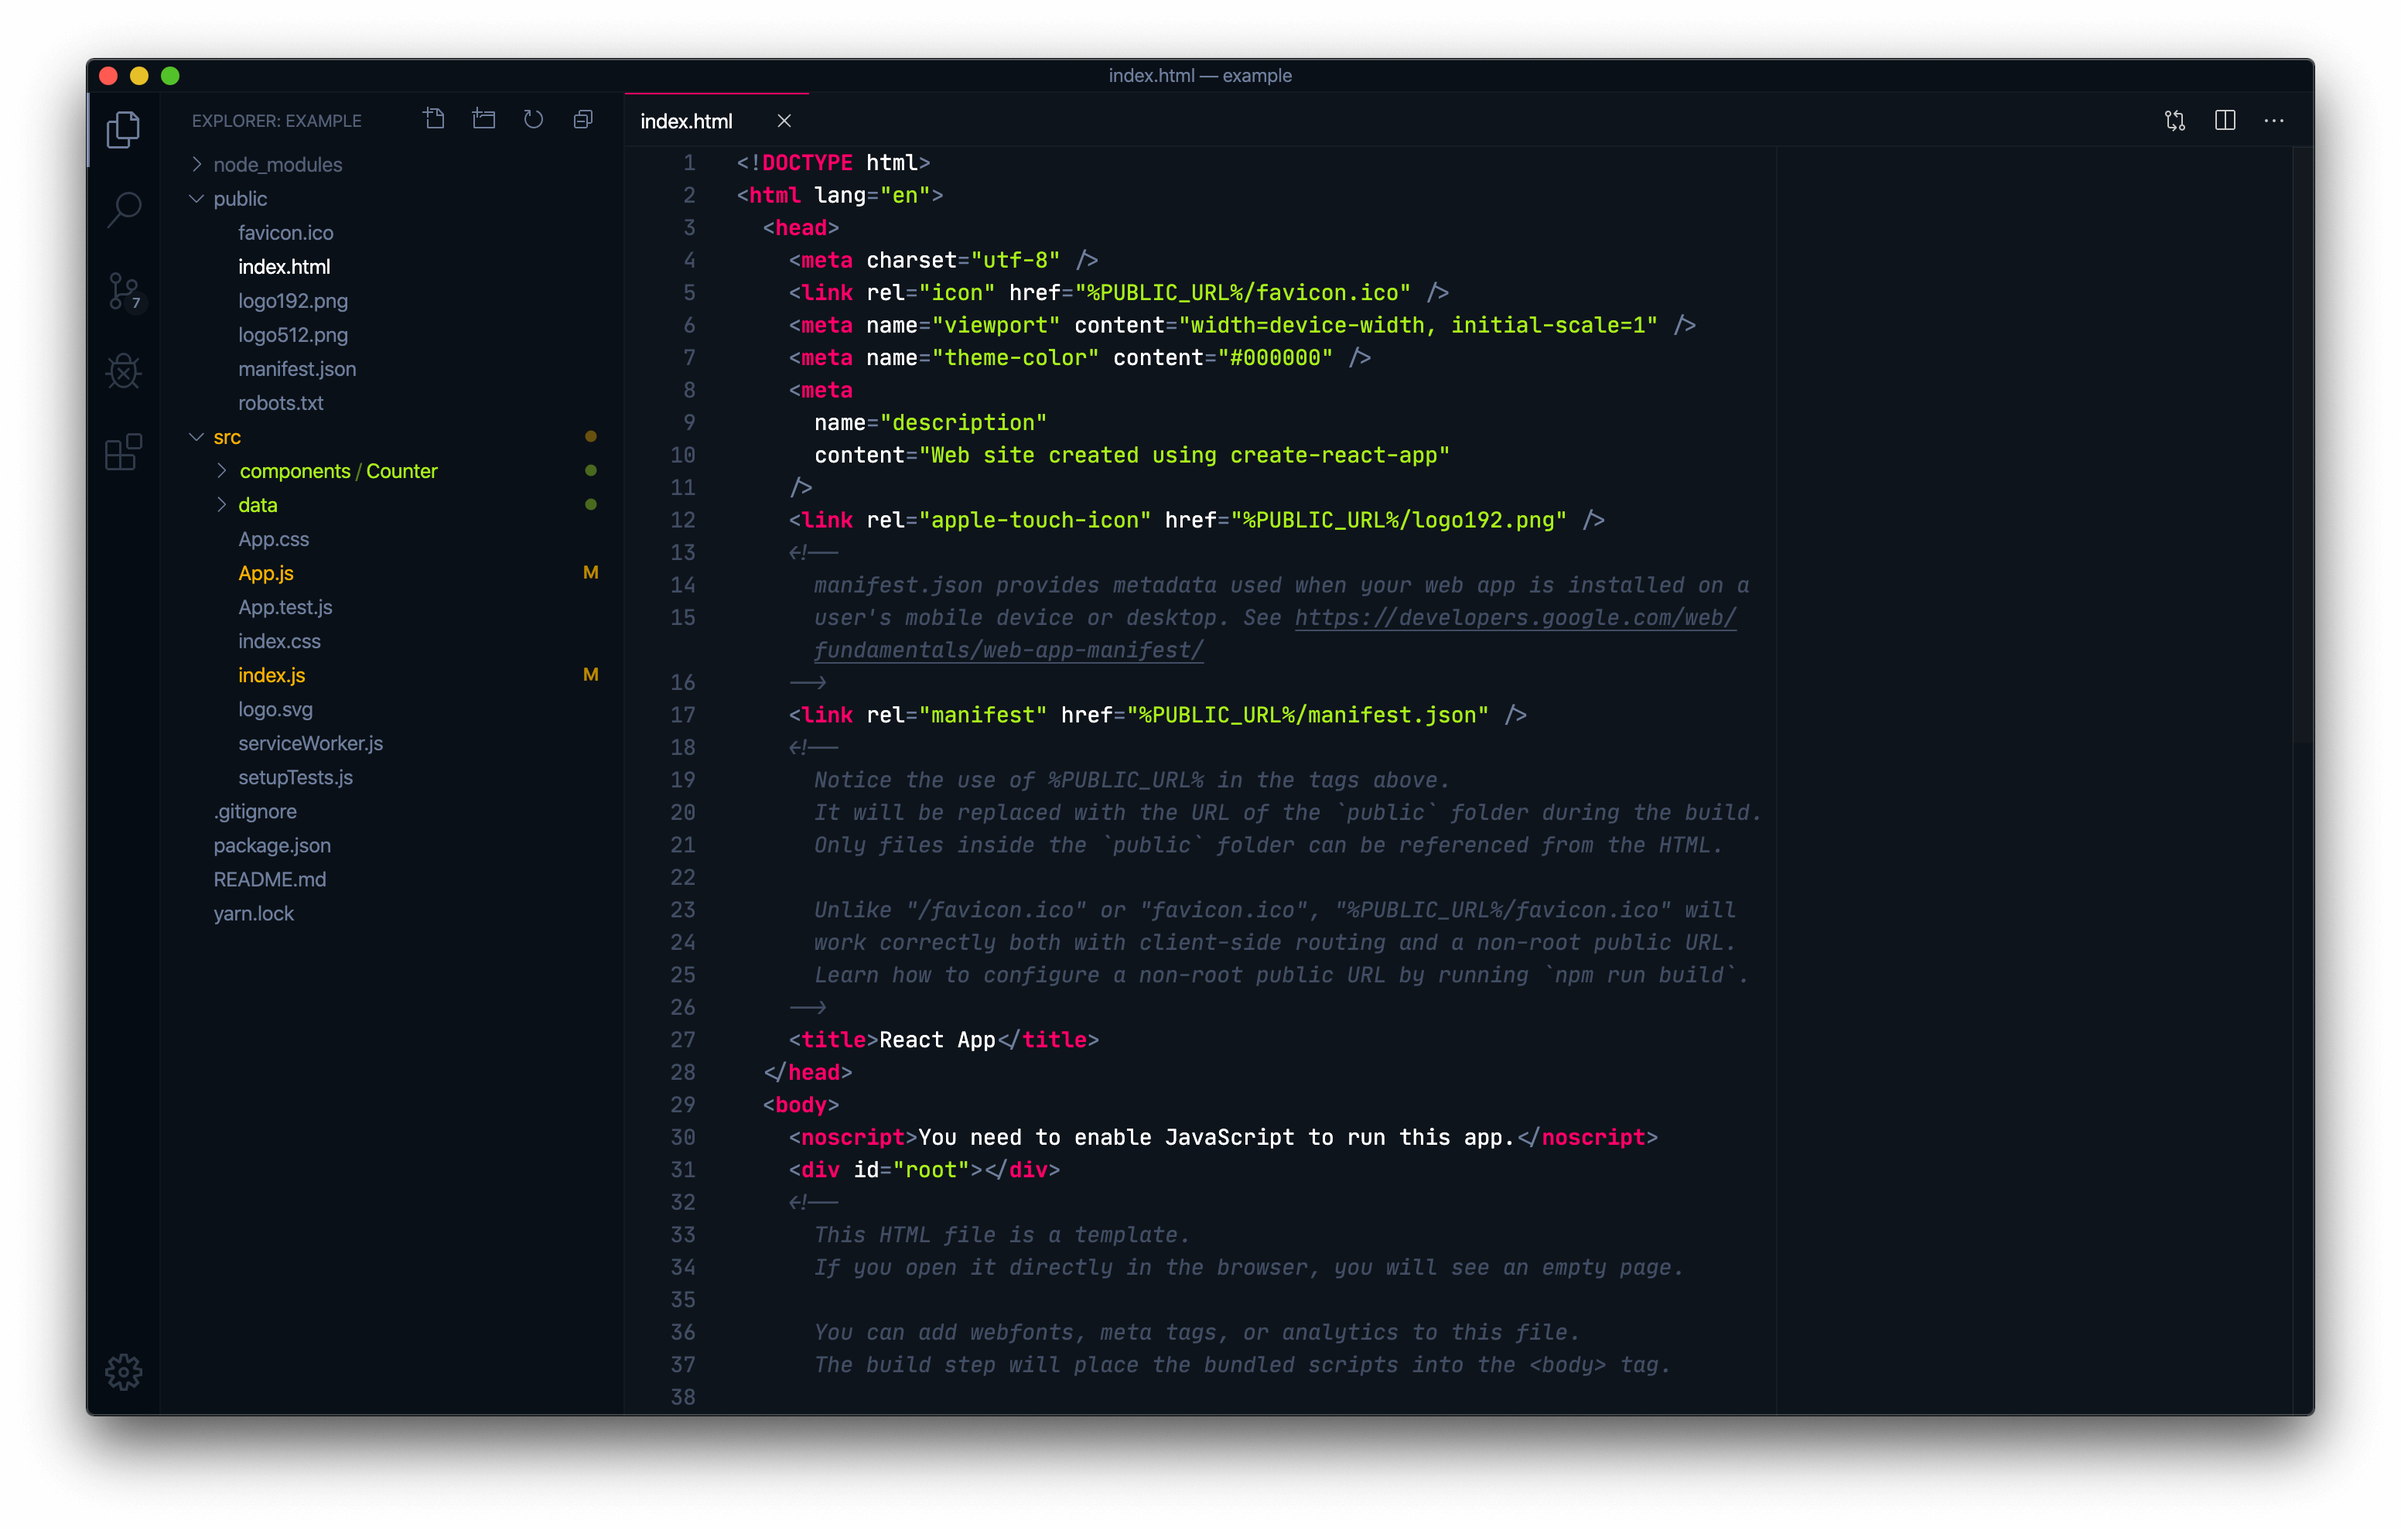
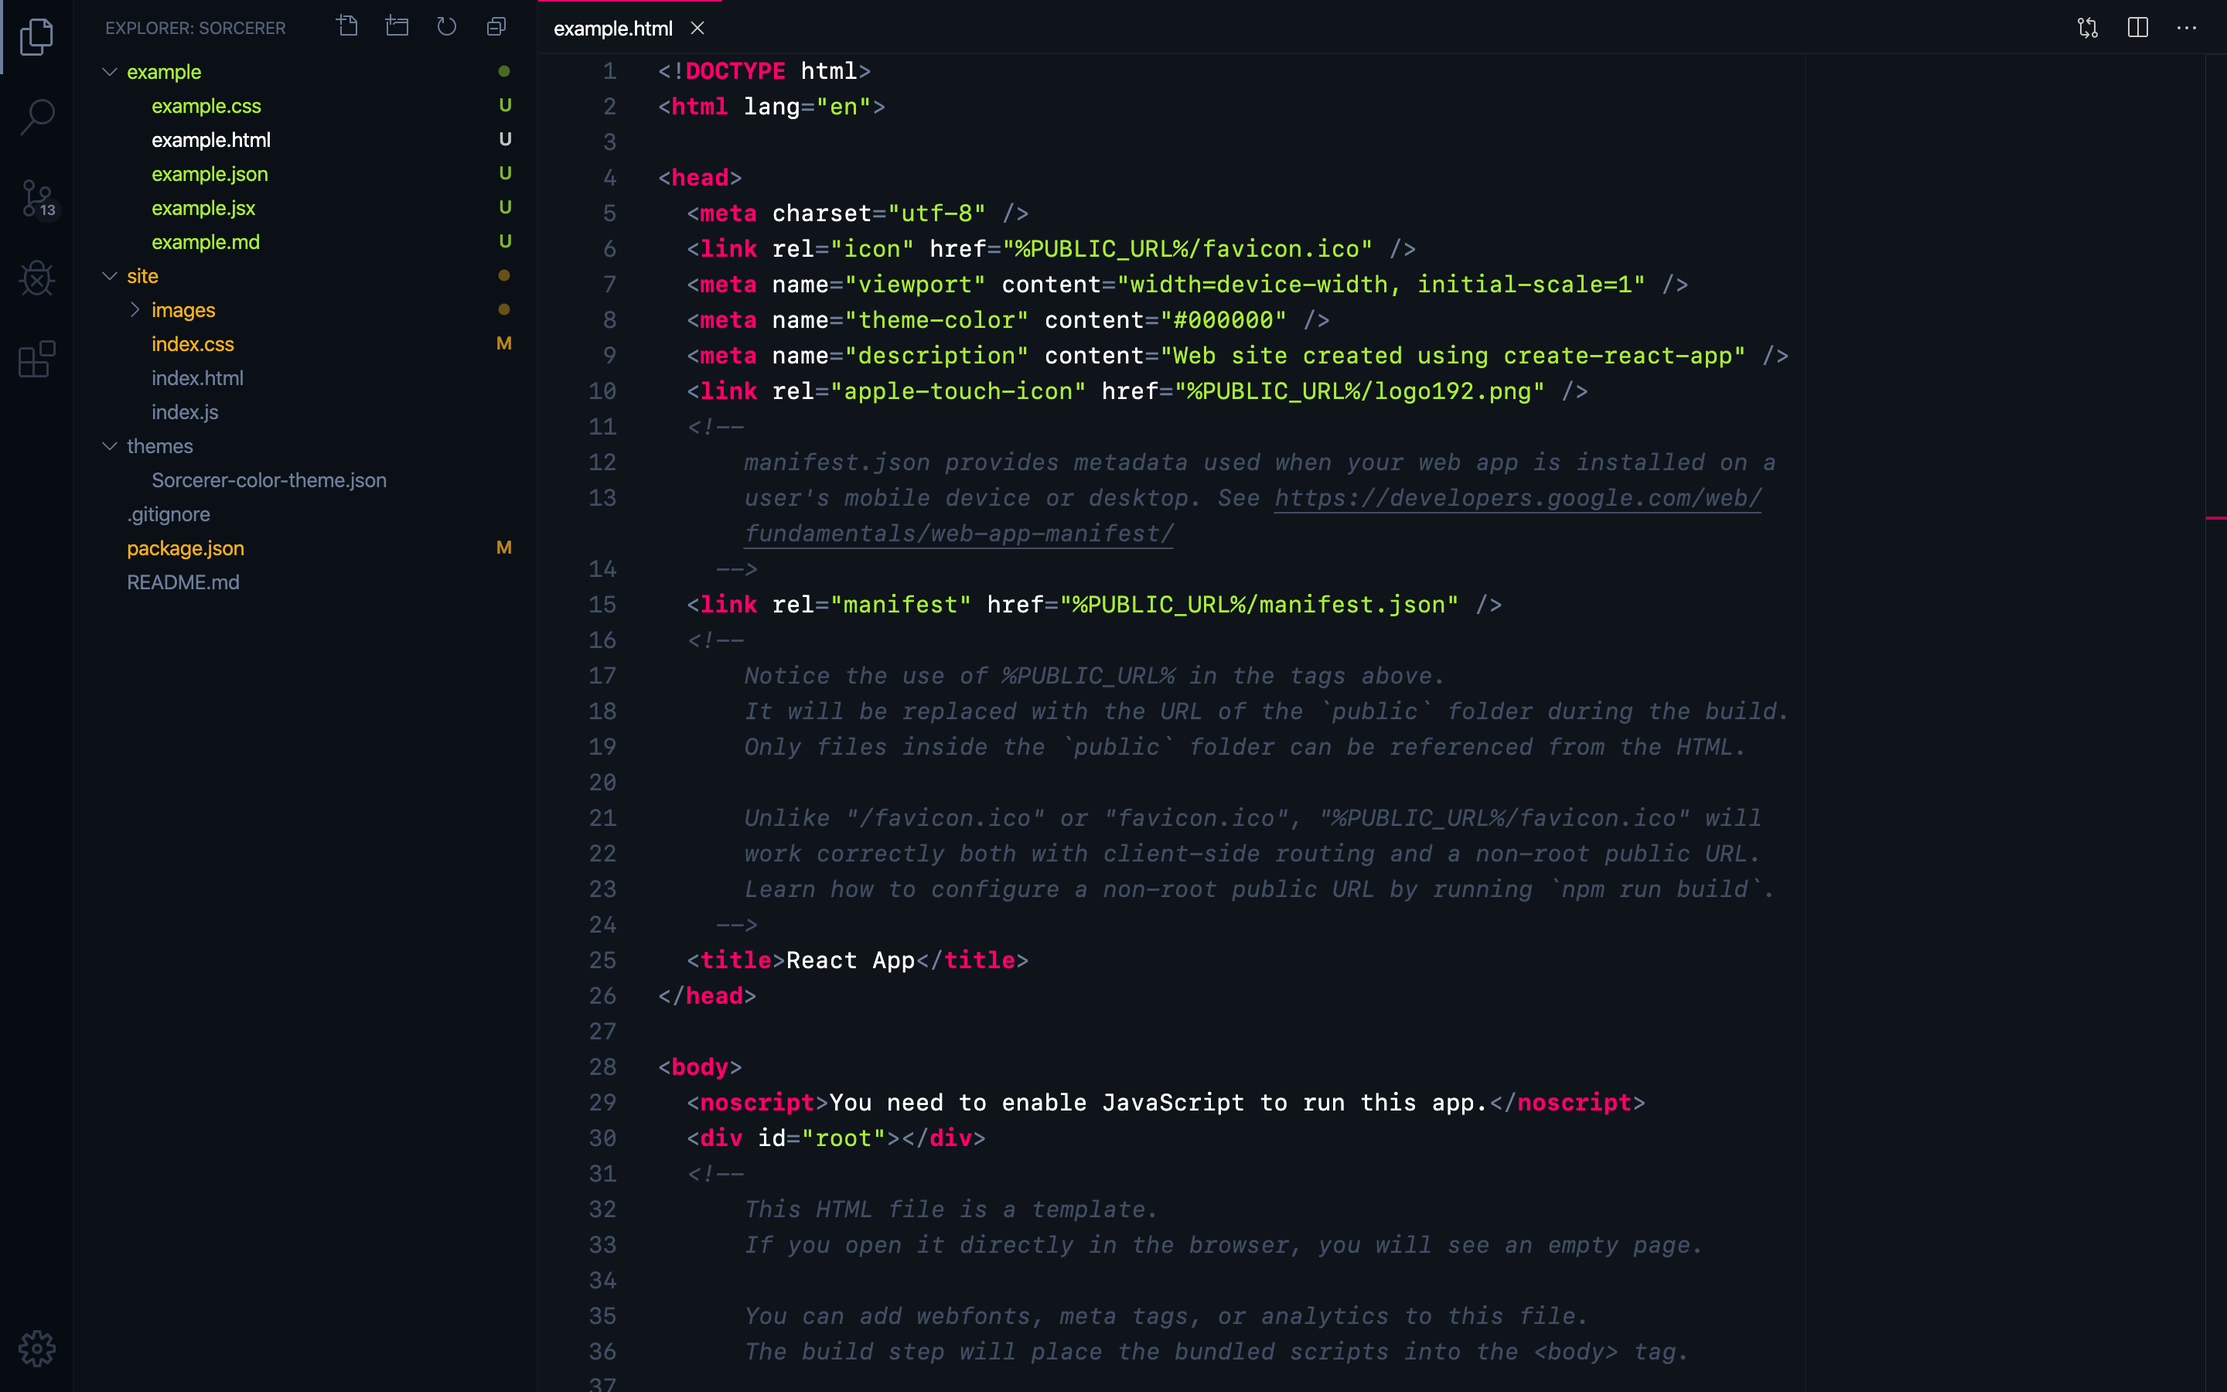
Add examples, better screenshots

diff --git a/example/example.html b/example/example.html
@@ -1,0 +1,43 @@
+<!DOCTYPE html>
+<html lang="en">
+
+<head>
+  <meta charset="utf-8" />
+  <link rel="icon" href="%PUBLIC_URL%/favicon.ico" />
+  <meta name="viewport" content="width=device-width, initial-scale=1" />
+  <meta name="theme-color" content="#000000" />
+  <meta name="description" content="Web site created using create-react-app" />
+  <link rel="apple-touch-icon" href="%PUBLIC_URL%/logo192.png" />
+  <!--
+      manifest.json provides metadata used when your web app is installed on a
+      user's mobile device or desktop. See https://developers.google.com/web/fundamentals/web-app-manifest/
+    -->
+  <link rel="manifest" href="%PUBLIC_URL%/manifest.json" />
+  <!--
+      Notice the use of %PUBLIC_URL% in the tags above.
+      It will be replaced with the URL of the `public` folder during the build.
+      Only files inside the `public` folder can be referenced from the HTML.
+
+      Unlike "/favicon.ico" or "favicon.ico", "%PUBLIC_URL%/favicon.ico" will
+      work correctly both with client-side routing and a non-root public URL.
+      Learn how to configure a non-root public URL by running `npm run build`.
+    -->
+  <title>React App</title>
+</head>
+
+<body>
+  <noscript>You need to enable JavaScript to run this app.</noscript>
+  <div id="root"></div>
+  <!--
+      This HTML file is a template.
+      If you open it directly in the browser, you will see an empty page.
+
+      You can add webfonts, meta tags, or analytics to this file.
+      The build step will place the bundled scripts into the <body> tag.
+
+      To begin the development, run `npm start` or `yarn start`.
+      To create a production bundle, use `npm run build` or `yarn build`.
+    -->
+</body>
+
+</html>

diff --git a/site/index.css b/site/index.css
@@ -18,6 +18,12 @@ html {
   line-height: 1.5;
 }
 
+@media (max-width: 1000px) {
+  html {
+    font-size: 16px;
+  }
+}
+
 body {
   background: linear-gradient(0deg, #16202b, #0e141a);
 }
@@ -57,6 +63,17 @@ section {
 img {
   max-width: 1200px;
   width: 100%;
+  border: 1px solid #ffffff11;
+  border-radius: 1rem;
+  margin: 1rem 0;
+  box-shadow: 0 1rem 2rem rgba(0, 0, 0, 0.5);
+}
+
+@media (max-width: 1000px) {
+  img {
+    border-radius: 1rem;
+    box-shadow: none;
+  }
 }
 
 .hero {
@@ -137,7 +154,7 @@ button {
   padding: 0.25rem 0.75rem;
   border-radius: 2rem;
   background: none;
-  font-size: 14px;
+  font-size: 0.8rem;
   color: #fff;
   border: 0;
   margin: 0 8px 0 0;
@@ -150,6 +167,10 @@ button {
 button:hover {
   background: #ffffff11;
   transition: none;
+}
+
+button:last-of-type {
+  margin-right: 0;
 }
 
 .active {

diff --git a/example/example.css b/example/example.css
@@ -1,0 +1,57 @@
+/* Box-sizing rules */
+*,
+*::before,
+*::after {
+  box-sizing: border-box;
+  -webkit-font-smoothing: antialiased;
+  -moz-osx-font-smoothing: grayscale;
+  text-size-adjust: 100%;
+}
+
+/* Set general fonts and line height */
+html {
+  font-family: "Proxima Nova";
+  font-size: 18px;
+  line-height: 1.5;
+}
+
+/* Set body color */
+.dark body {
+  background: #000;
+  color: #eee;
+}
+
+.light body {
+  background: #fff;
+  color: #333;
+}
+
+/* General reset */
+body {
+  min-height: 100vh;
+  scroll-behavior: smooth;
+  text-rendering: optimizeLegibility;
+  line-height: 1.666666;
+  background: #fff;
+}
+
+a:not([class]) {
+  text-decoration-skip-ink: auto;
+}
+
+body,
+h1,
+h2,
+h3,
+h4,
+p,
+ul[class],
+ol[class],
+li,
+figure,
+figcaption,
+blockquote,
+dl,
+dd {
+  margin: 0;
+}

diff --git a/example/example.jsx b/example/example.jsx
@@ -1,0 +1,29 @@
+import React, { Component } from "react";
+import styles from "./nonexistent/Path.module.scss";
+
+class Counter extends Component {
+  state = { count: 0 };
+
+  // Lorem ipsum dolor sit amet, consectetur adipiscing elit, sed do
+  // eiusmod tempor incididunt ut labore et dolore magna aliqua.
+  increment = () => {
+    this.setState({
+      count: this.state.count + 1
+    });
+  };
+
+  render() {
+    const { count } = this.state;
+    const { text } = this.props;
+    return (
+      <div className={styles.counter}>
+        <div>The button has been clicked {count} times.</div>
+        <button onClick={this.increment} className={styles.button}>
+          {text}
+        </button>
+      </div>
+    );
+  }
+}
+
+export default Counter;

diff --git a/example/example.md b/example/example.md
@@ -1,0 +1,27 @@
+---
+title: Tips for beginner programmers
+type:  article
+---
+
+> “When I write, I feel like an armless, legless man with a crayon in his mouth.” — Kurt Vonnegut
+
+If you're starting to program, you might feel like Kurt. It's hard to wrap your head around a complex new world filled with intricacies, best practices, and alien-looking examples.
+
+As a self-taught developer who's worked in the industry for several years, these are some of the things I wish someone had told me when I was just starting out. None of them are specific to a single language – they're more about the general mindset of learning to code.
+
+
+## About being on fire (and recursion)
+
+For how many times my teachers told me to "stop, drop, and roll" as a kid, I thought I'd be on fire more times in my life.
+
+It's the same thing with programming terms like _recursion_ — I thought it was going to be much more common than it is in practice.
+
+If you're _just_ starting out, learn the very basics: variables, comments, functions, and so on. Tackle the harder concepts once you have a need for them. It's much easier to learn something when you understand _why_ you need to use it.
+
+
+## Lean into motivation
+
+After you learn the basics, try to build something you're curious about. For me, this was a WordPress plugin and a Zelda-like dungeon generator. You'll learn faster and stay more motivated when you're interested in the finished product.
+
+
+[Read the whole post...](https://zeph.co/programming)
